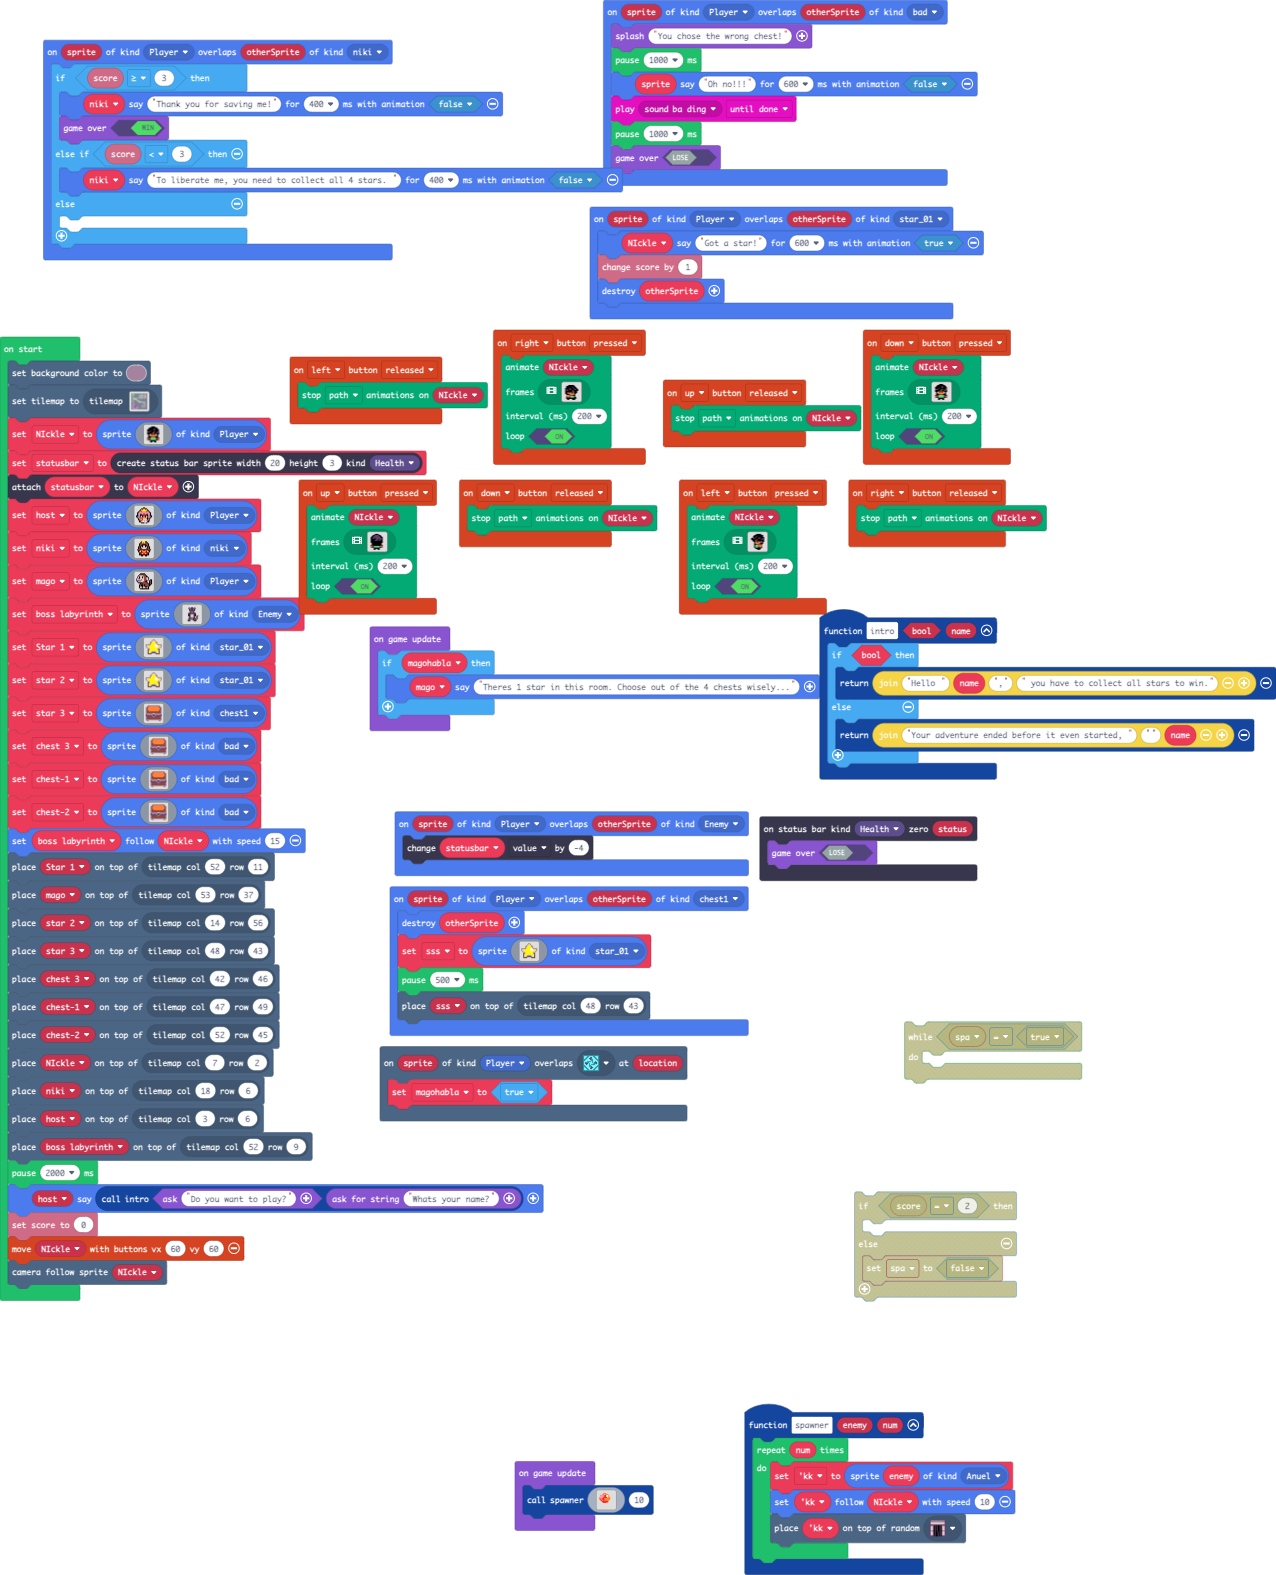
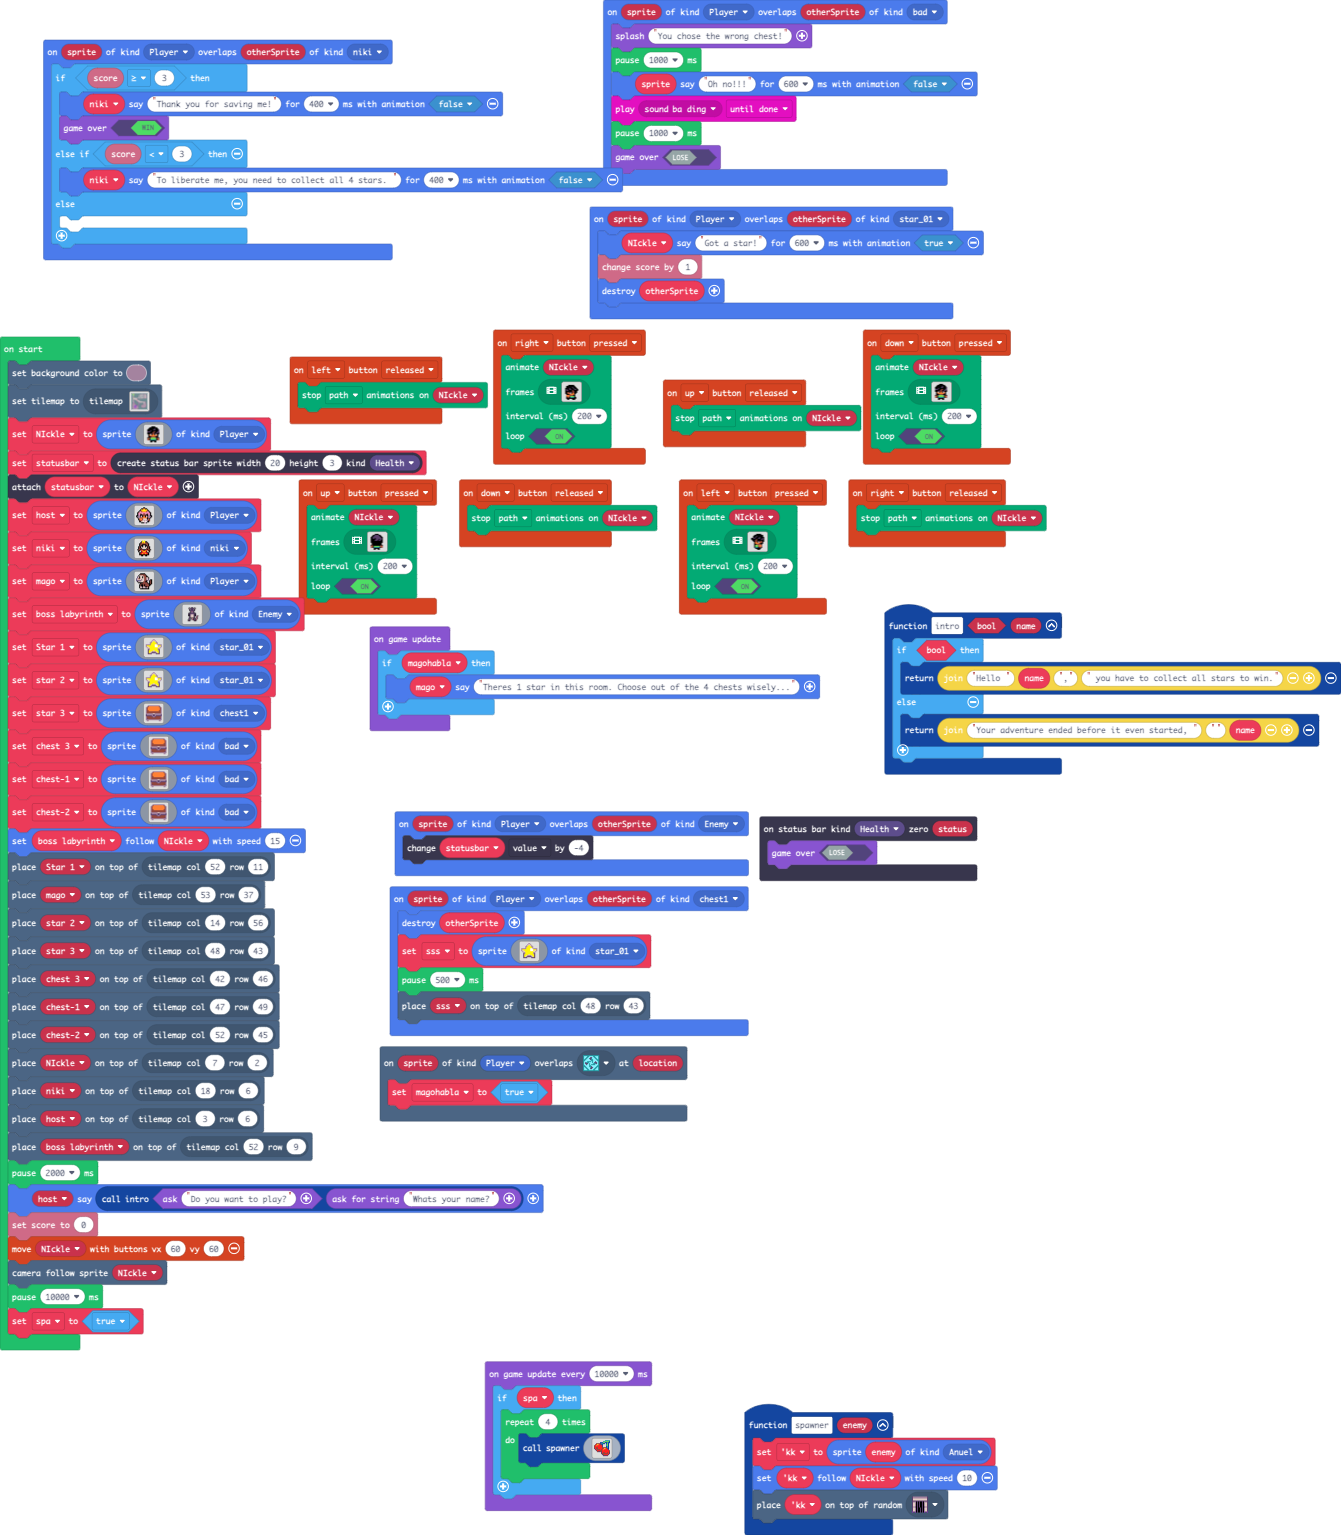
Update main.blocks, main.ts

diff --git a/main.ts b/main.ts
@@ -312,12 +312,10 @@ controller.down.onEvent(ControllerButtonEvent.Pressed, function () {
     true
     )
 })
-function spawner (enemy: Image, num: number) {
-    for (let index = 0; index < num; index++) {
-        kk = sprites.create(enemy, SpriteKind.Anuel)
-        kk.follow(NIckle, 10)
-        tiles.placeOnRandomTile(kk, sprites.dungeon.doorClosedNorth)
-    }
+function spawner (enemy: Image) {
+    kk = sprites.create(enemy, SpriteKind.Anuel)
+    kk.follow(NIckle, 10)
+    tiles.placeOnRandomTile(kk, sprites.dungeon.doorClosedNorth)
 }
 scene.onOverlapTile(SpriteKind.Player, sprites.dungeon.collectibleInsignia, function (sprite, location) {
     magohabla = true
@@ -566,28 +564,34 @@ host.sayText(intro(game.ask("Do you want to play?"), game.askForString("Whats yo
 info.setScore(0)
 controller.moveSprite(NIckle, 60, 60)
 scene.cameraFollowSprite(NIckle)
+pause(10000)
+let spa = true
 game.onUpdate(function () {
     if (magohabla) {
         mago.sayText("Theres 1 star in this room. Choose out of the 4 chests wisely...")
     }
 })
-game.onUpdate(function () {
-    spawner(img`
-        . . . . . . . . . . . . . . . . 
-        . . . . . 4 4 4 . . . . . . . . 
-        . . . . 4 4 5 4 4 4 . . . . . . 
-        . . 4 3 3 3 2 2 1 1 4 . . . . . 
-        . . 3 3 3 3 2 2 1 1 4 . . . . . 
-        . 4 3 3 3 2 2 2 2 5 4 4 . . . . 
-        . 4 4 3 2 2 4 4 4 4 4 4 . . . . 
-        . 4 2 3 2 2 4 4 4 4 4 4 . . . . 
-        . . 4 2 3 2 4 4 4 4 4 . . . . . 
-        . . . 4 2 2 2 2 2 2 . . . . . . 
-        . . . . 4 2 2 2 4 4 . . . . . . 
-        . . . . . . . . . . . . . . . . 
-        . . . . . . . . . . . . . . . . 
-        . . . . . . . . . . . . . . . . 
-        . . . . . . . . . . . . . . . . 
-        . . . . . . . . . . . . . . . . 
-        `, 10)
+game.onUpdateInterval(10000, function () {
+    if (spa) {
+        for (let index = 0; index < 4; index++) {
+            spawner(img`
+                . . . . . . . . . . . 6 6 6 6 6 
+                . . . . . . . . . 6 6 7 7 7 7 8 
+                . . . . . . 8 8 8 7 7 8 8 6 8 8 
+                . . e e e e c 6 6 8 8 . 8 7 8 . 
+                . e 2 5 4 2 e c 8 . . . 6 7 8 . 
+                e 2 4 2 2 2 2 2 c . . . 6 7 8 . 
+                e 2 2 2 2 2 2 2 c . . . 8 6 8 . 
+                e 2 e e 2 2 2 2 e e e e c 6 8 . 
+                c 2 e e 2 2 2 2 e 2 5 4 2 c 8 . 
+                . c 2 e e e 2 e 2 4 2 2 2 2 c . 
+                . . c 2 2 2 e e 2 2 2 2 2 2 2 e 
+                . . . e c c e c 2 2 2 2 2 2 2 e 
+                . . . . . . . c 2 e e 2 2 e 2 c 
+                . . . . . . . c e e e e e e 2 c 
+                . . . . . . . . c e 2 2 2 2 c . 
+                . . . . . . . . . c c c c c . . 
+                `)
+        }
+    }
 })
